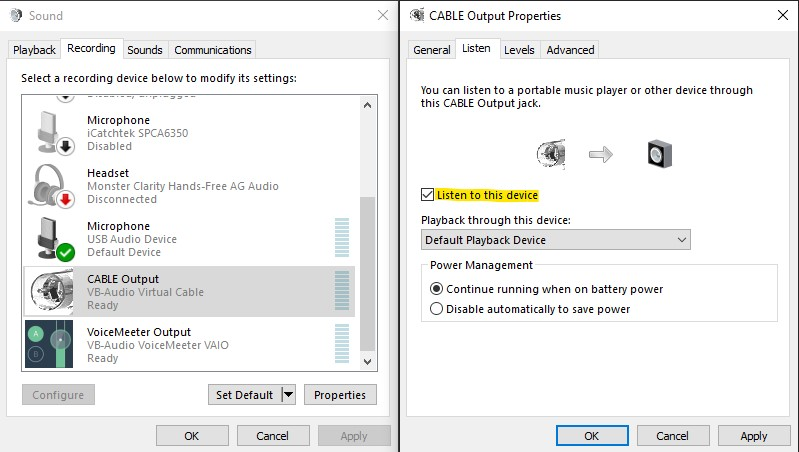
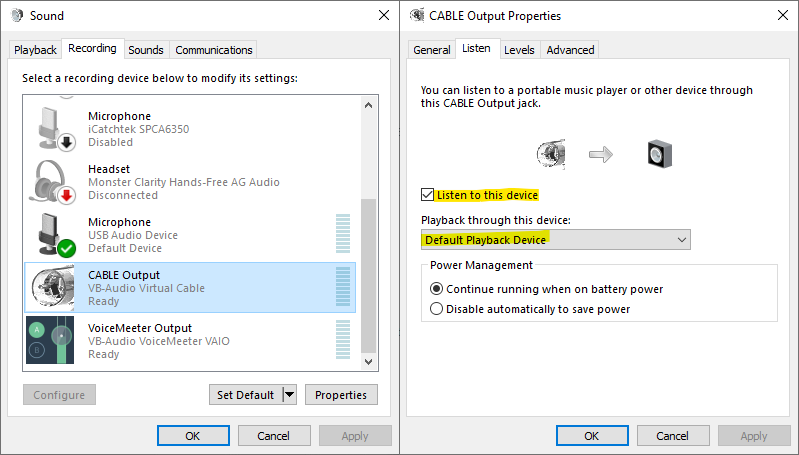
updated listen to virtual

diff --git a/docs/faq.html b/docs/faq.html
@@ -154,6 +154,10 @@ You will get a CD with songs ordered in the same order than the album or the one
 
 <p>Right click on the Audio 🔉 icon in the taskbar and select <strong>Open Sound settings</strong>, go down to the <em>Sound</em> section and select <strong>Sound Control Panel</strong>. In the <em>Recording</em> tab, select the <strong>CABLE Output</strong> device, then click on <strong>Properties</strong>. In the Device properties window, under <em>Listen</em> tab, check the option <code class="language-plaintext highlighter-rouge">Listen to this device</code>.</p>
 
+<p>If you <a href="#isolate-spotify-audio-endpoint">isolated Spotify and Spytify properly on the virutal audio device</a>, you can leave <strong>Default Playback Device</strong> selected for the <em>Playback through this device</em> option, otherwise if your default playback is somehow a different one than your headset/speaker, select it in the dropdown list.</p>
+
+<p>Click <strong>Apply</strong> and you should now hear it.</p>
+
 <p align="center"><img alt="Listen to the virtual device output" src="./assets/images/faq_listen_to_cable_output.png" /></p>
 </p>
     </details>

diff --git a/docs/faq/LISTEN_TO_VIRTUAL_DEVICE.html b/docs/faq/LISTEN_TO_VIRTUAL_DEVICE.html
@@ -39,6 +39,10 @@
 
 <p>Right click on the Audio 🔉 icon in the taskbar and select <strong>Open Sound settings</strong>, go down to the <em>Sound</em> section and select <strong>Sound Control Panel</strong>. In the <em>Recording</em> tab, select the <strong>CABLE Output</strong> device, then click on <strong>Properties</strong>. In the Device properties window, under <em>Listen</em> tab, check the option <code class="language-plaintext highlighter-rouge">Listen to this device</code>.</p>
 
+<p>If you <a href="#isolate-spotify-audio-endpoint">isolated Spotify and Spytify properly on the virutal audio device</a>, you can leave <strong>Default Playback Device</strong> selected for the <em>Playback through this device</em> option, otherwise if your default playback is somehow a different one than your headset/speaker, select it in the dropdown list.</p>
+
+<p>Click <strong>Apply</strong> and you should now hear it.</p>
+
 <p align="center"><img alt="Listen to the virtual device output" src="./assets/images/faq_listen_to_cable_output.png" /></p>
 
 

diff --git a/_faq/LISTEN_TO_VIRTUAL_DEVICE.md b/_faq/LISTEN_TO_VIRTUAL_DEVICE.md
@@ -11,4 +11,8 @@ To be able to still listen to Spotify when you are recording with Spytify with a
 
 Right click on the Audio 🔉 icon in the taskbar and select **Open Sound settings**, go down to the _Sound_ section and select **Sound Control Panel**. In the _Recording_ tab, select the **CABLE Output** device, then click on **Properties**. In the Device properties window, under _Listen_ tab, check the option `Listen to this device`.
 
+If you [isolated Spotify and Spytify properly on the virutal audio device](#isolate-spotify-audio-endpoint), you can leave **Default Playback Device** selected for the _Playback through this device_ option, otherwise if your default playback is somehow a different one than your headset/speaker, select it in the dropdown list.
+
+Click **Apply** and you should now hear it.
+
 <p align="center"><img alt="Listen to the virtual device output" src="./assets/images/faq_listen_to_cable_output.png" /></p>
